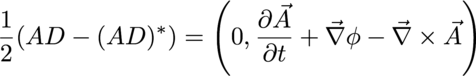
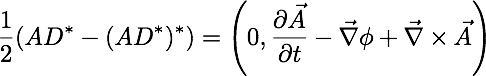
Used D*. throughout.

diff --git a/docs/EM/EM_invariants.md b/docs/EM/EM_invariants.md
@@ -45,14 +45,22 @@ phi plus the cross product of J and A](../images/EM/EM_invariants/current_coupli
 The electric and magentic fields can be written in terms of differential
 operators acting on a potential. Form the product:
 
-![The differential times the potential A equals the time
-derivative, Del times phi A equals the time derivative of phi minus the
-divergence of A, the time derivative of A plus the gradient of phi plus the
+![The conjugate of the differential times the potential A equals the time
+derivative, minus Del times phi A equals the time derivative of phi plus the
+divergence of A, the time derivative of A minus the gradient of phi minus the
 curl of A](../images/EM/EM_invariants/DA.png)
 
-The first term is a gauge term.  EM has gauge symmetry.  Set this to zero in a
-way that assures that no matter what gauge we pick - terms involving the time
-derivative of phi or divergence of A - the other terms are unchanged.
+The first term is a gauge term.  EM has gauge symmetry. If this particular
+gauge is set to zero, it is called the Lorenz gauge.
+
+Why was the conjugate taken of the differential operator? A differential
+element is like multiply by the inverse of really small numbers. Getting an
+inverse with quaternions uses the conjugate operator.
+
+With quaternions, it is simple to assure any gauge choice works. Set the first
+term equal to zero in a way that assures that no matter what gauge we pick - 
+terms involving the time derivative of phi or divergence of A - the other terms 
+are unchanged.
 
 ![One half Del times A minus the conjugate of Del times A equals zero the time
 derivative of A plus the gradient of phi plus the curl of

diff --git a/docs/EM/EM_invariants.book.md b/docs/EM/EM_invariants.book.md
@@ -42,9 +42,17 @@ operators acting on a potential. Form the product:
 
 ![](images/EM/EM_invariants/DA.png)
 
-The first term is a gauge term.  EM has gauge symmetry.  Set this to zero in a
-way that assures that no matter what gauge we pick - terms involving the time
-derivative of phi or divergence of A - the other terms are unchanged.
+The first term is a gauge term.  EM has gauge symmetry. If this particular
+gauge is set to zero, it is called the Lorenz gauge.
+
+Why was the conjugate taken of the differential operator? A differential
+element is like multiply by the inverse of really small numbers. Getting an
+inverse with quaternions uses the conjugate operator.
+
+With quaternions, it is simple to assure any gauge choice works. Set the first
+term equal to zero in a way that assures that no matter what gauge we pick - 
+terms involving the time derivative of phi or divergence of A - the other terms 
+are unchanged.
 
 ![](images/EM/EM_invariants/DA_no_scalar.png)
 
